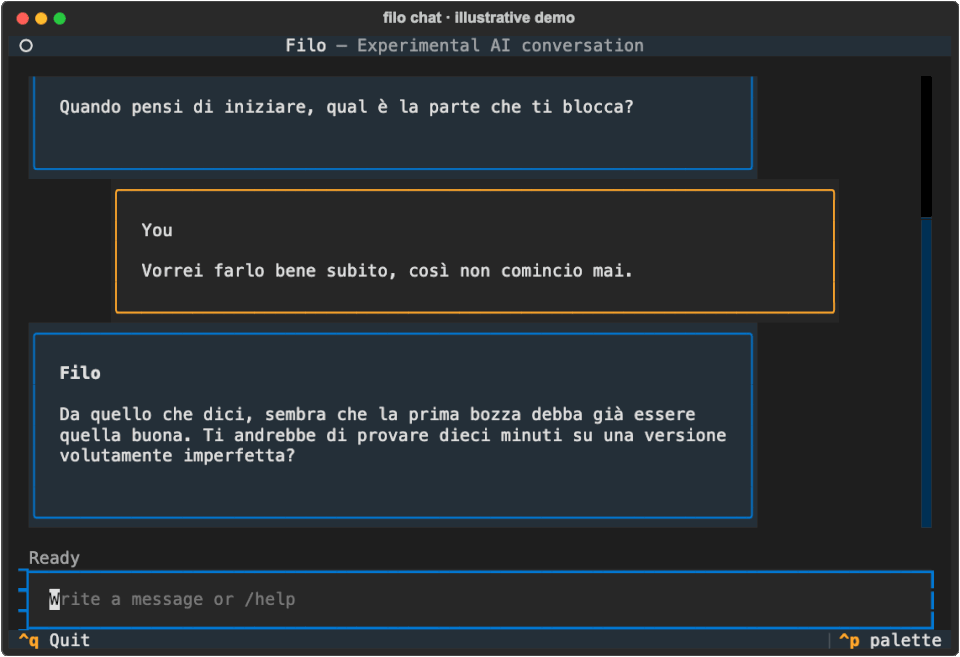
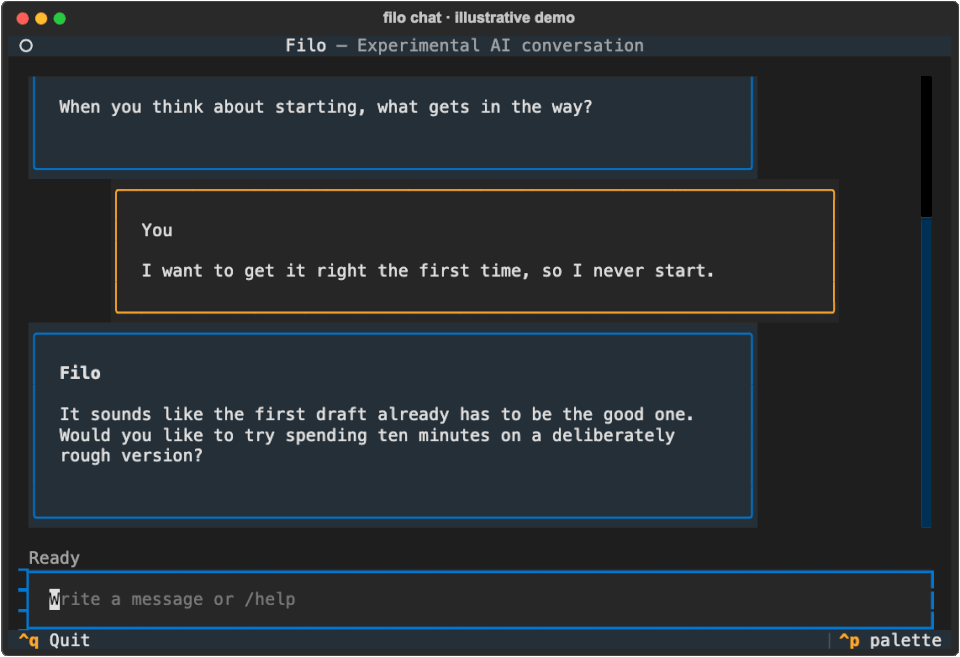
Use English for the public demo and clarify the default language

Changed region(s): [[0.0625, 0.6088, 0.75, 0.7002], [0.125, 0.3957, 0.75, 0.4262], [0.0625, 0.1522, 0.6562, 0.1826]]

diff --git a/docs/assets/README.md b/docs/assets/README.md
@@ -1,24 +1,24 @@
 # README terminal demo
 
-`filo-demo.gif` shows Filo's actual Textual interface with a scripted synthetic Italian
+`filo-demo.gif` shows Filo's actual Textual interface with a scripted synthetic English
 conversation. It is an illustrative UI demonstration, not a recording of live model output or
 measured response latency. No provider was called, no user data was read, and the capture used a
 temporary isolated store. The application code and default terminal theme were not modified.
 
 ## Transcript
 
-**You:** Continuo a rimandare un progetto a cui tengo.
+**You:** I keep putting off a project I care about.
 
-**Filo:** Quando pensi di iniziare, qual è la parte che ti blocca?
+**Filo:** When you think about starting, what gets in the way?
 
-**You:** Vorrei farlo bene subito, così non comincio mai.
+**You:** I want to get it right the first time, so I never start.
 
-**Filo:** Da quello che dici, sembra che la prima bozza debba già essere quella buona.
-Ti andrebbe di provare dieci minuti su una versione volutamente imperfetta?
+**Filo:** It sounds like the first draft already has to be the good one.
+Would you like to try spending ten minutes on a deliberately rough version?
 
 ## Capture details
 
-Created on 2026-10-19 against Filo commit `9672ebb` using `FiloApp.run_test(size=(92, 30))`
+Created on 2026-10-19 against Filo commit `72bafb3` using `FiloApp.run_test(size=(92, 30))`
 and Textual's SVG screenshot export, with `NO_COLOR` unset. The sequence uses real user and
 assistant widgets, incremental scripted text, and readable pauses. HyperFrames 0.8.174 rendered
 it at 12 fps; gifsicle optimized the GIF to 960 pixels wide and 128 colors. The static PNG is

diff --git a/AGENTS.md b/AGENTS.md
@@ -1101,7 +1101,8 @@ plainly distinguishes AI-supported conversation or self-help from diagnosis and 
 - Write code, documentation, prompts, schema names, protocol content, tests, and test fixtures in
   English. Use another language in a test only when that language is required to verify localized
   behavior or multilingual retrieval.
-- Support Italian and English at runtime.
+- English is the default for the product, documentation, and public demos. Italian is an
+  additional runtime language option; do not make Italian the default in public examples.
 - Before changing code, consult the current official documentation for affected libraries.
 - Work directly on `main` and push commits to `origin/main`. Do not create agent or feature branches
   or open pull requests unless the user explicitly requests that workflow.

diff --git a/README.md b/README.md
@@ -2,9 +2,9 @@
 
 **Experimental, self-hosted AI conversation for adult self-reflection.**
 
-Filo runs in a terminal or one private, allowlisted Telegram chat. It supports Italian and
-English, keeps local state encrypted, and separates direct user reports from tentative agent
-hypotheses.
+Filo runs in a terminal or one private, allowlisted Telegram chat. English is the default
+language, with Italian available as an additional option. Filo keeps local state encrypted
+and separates direct user reports from tentative agent hypotheses.
 
 ![Filo terminal demo: a user discusses postponing a project, and Filo helps explore what makes starting difficult.](docs/assets/filo-demo.gif)
 
